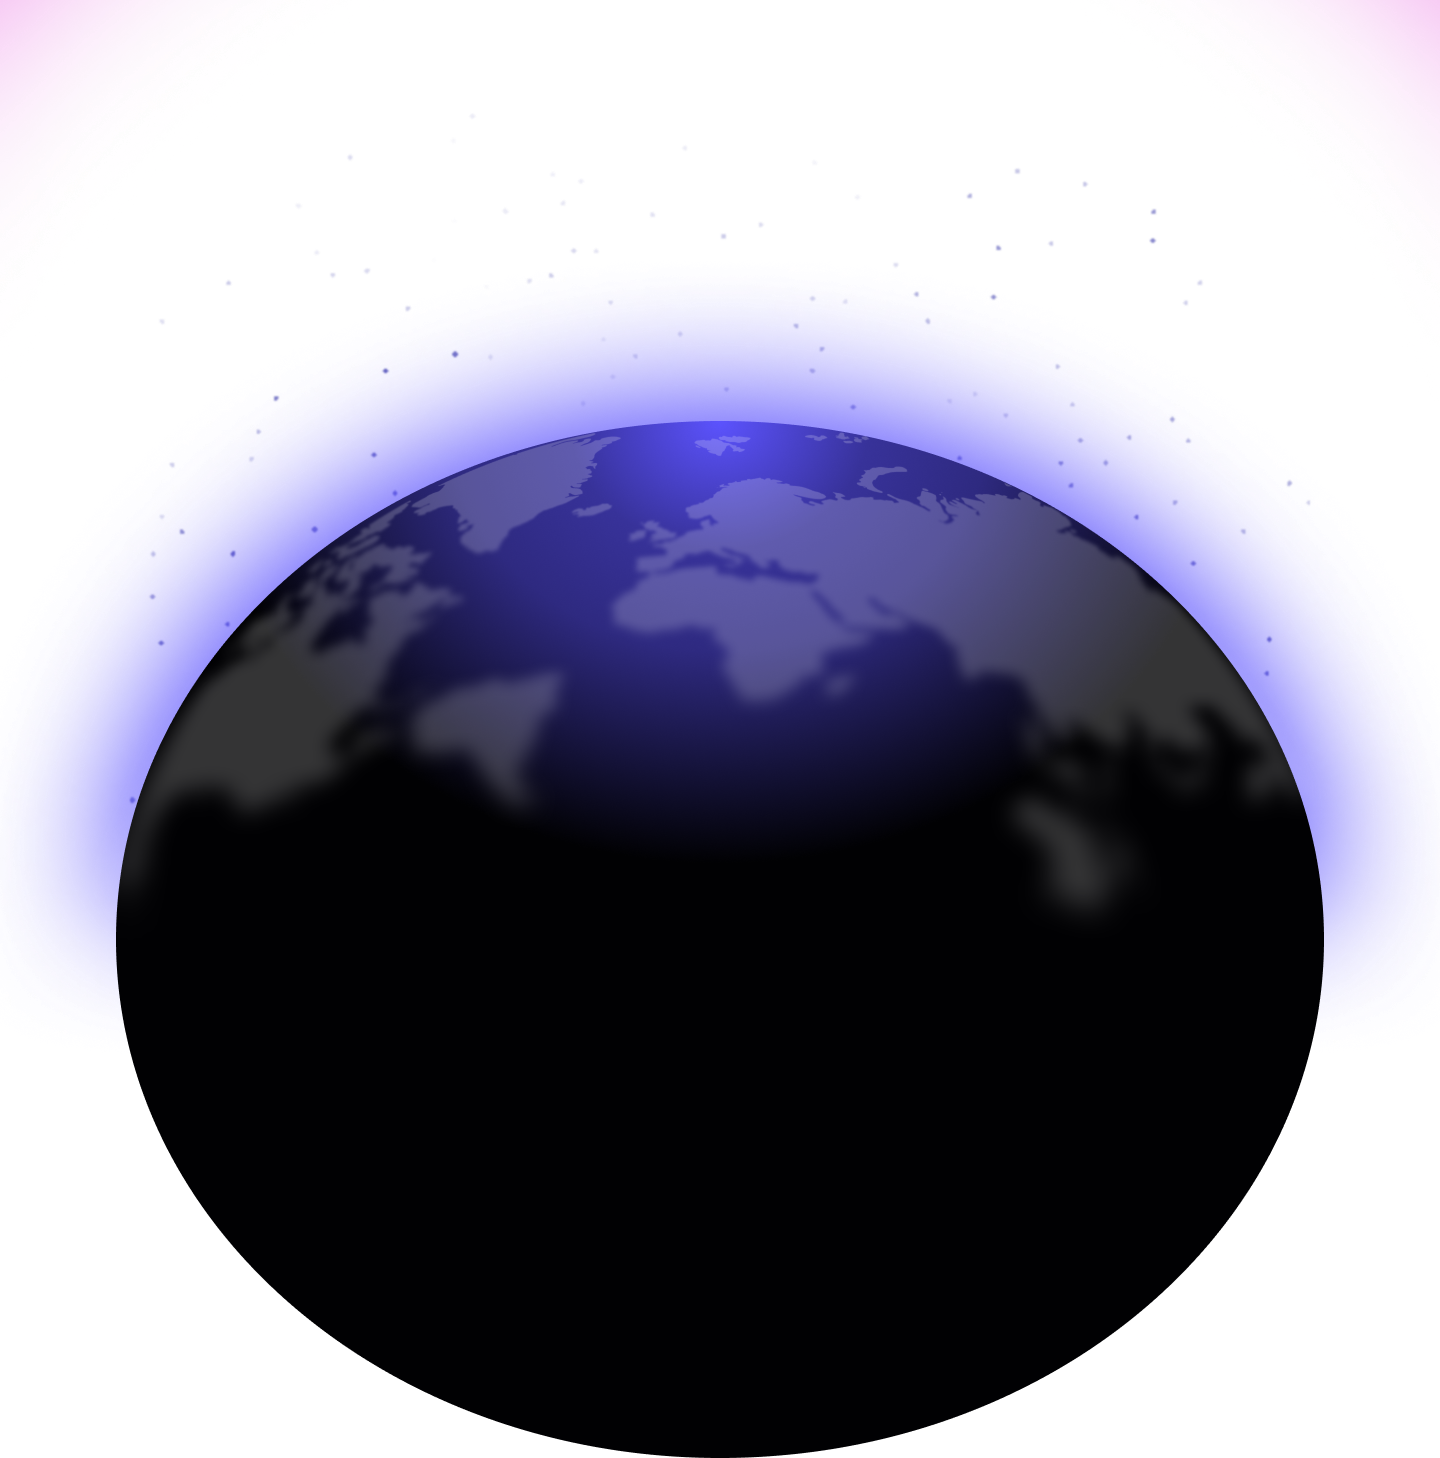
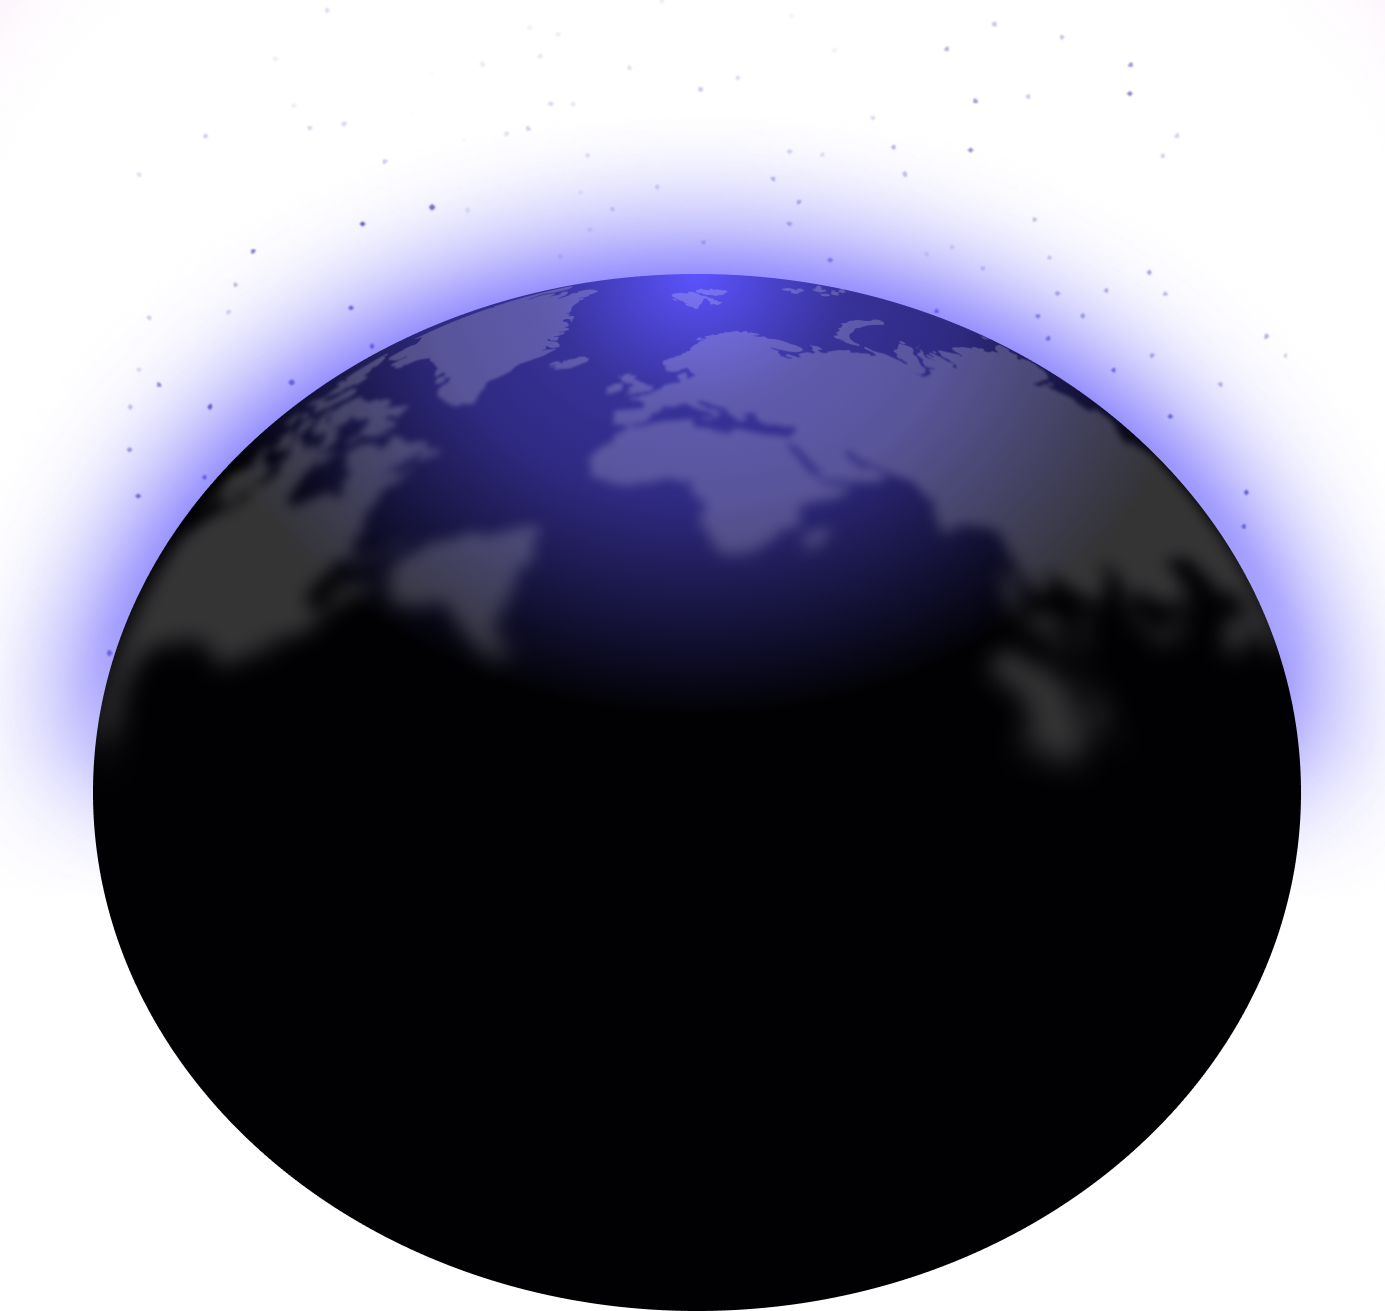
feat: add JobDiscovery and FeaturesSection components; update StatsSection layout

diff --git a/src/components/JobDiscovery.jsx b/src/components/JobDiscovery.jsx
@@ -1,0 +1,141 @@
+import React from 'react';
+import {
+  FiMapPin,
+  FiBriefcase,
+  FiDollarSign,
+  FiArrowRight,
+} from 'react-icons/fi';
+
+const jobsData = [
+  {
+    id: 1,
+    role: 'Frontend Developer',
+    description:
+      'Showcase your commitment to diversity and inclusion by highlighting initiatives',
+    location: 'New York, USA',
+    type: 'Hybrid',
+    salary: '€25–€40/hour',
+  },
+  {
+    id: 2,
+    role: 'Frontend Developer',
+    description:
+      'Showcase your commitment to diversity and inclusion by highlighting initiatives',
+    location: 'New York, USA',
+    type: 'Hybrid',
+    salary: '€25–€40/hour',
+  },
+  {
+    id: 3,
+    role: 'Frontend Developer',
+    description:
+      'Showcase your commitment to diversity and inclusion by highlighting initiatives',
+    location: 'New York, USA',
+    type: 'Hybrid',
+    salary: '€25–€40/hour',
+  },
+  {
+    id: 4,
+    role: 'Frontend Developer',
+    description:
+      'Showcase your commitment to diversity and inclusion by highlighting initiatives',
+    location: 'New York, USA',
+    type: 'Hybrid',
+    salary: '€25–€40/hour',
+  },
+  {
+    id: 5,
+    role: 'Frontend Developer',
+    description:
+      'Showcase your commitment to diversity and inclusion by highlighting initiatives',
+    location: 'New York, USA',
+    type: 'Hybrid',
+    salary: '€25–€40/hour',
+  },
+  {
+    id: 6,
+    role: 'Frontend Developer',
+    description:
+      'Showcase your commitment to diversity and inclusion by highlighting initiatives',
+    location: 'New York, USA',
+    type: 'Hybrid',
+    salary: '€25–€40/hour',
+  },
+];
+
+export default function JobDiscovery() {
+  return (
+    <section className="bg-black text-white py-20 px-4 sm:px-6 lg:px-8 font-sans antialiased">
+      <div className="max-w-6xl mx-auto text-center mb-16">
+        {/* Top Mini Badge */}
+        <div className="inline-flex items-center gap-2 text-xs font-semibold tracking-widest text-indigo-400 uppercase mb-4 select-none">
+          <span className="w-1.5 h-1.5 bg-indigo-500 rounded-full animate-pulse"></span>
+          Smart Job Discovery
+          <span className="w-1.5 h-1.5 bg-indigo-500 rounded-full animate-pulse"></span>
+        </div>
+
+        {/* Main Heading */}
+        <h2 className="text-3xl sm:text-5xl font-normal tracking-tight max-w-2xl mx-auto leading-tight">
+          The roles you'd never find by searching
+        </h2>
+      </div>
+
+      {/* Job Cards Grid */}
+      <div className="max-w-6xl mx-auto grid grid-cols-1 md:grid-cols-2 lg:grid-cols-3 gap-6 mb-16">
+        {jobsData.map((job) => (
+          <div
+            key={job.id}
+            className="group relative bg-[#121212] border border-[#1f1f1f] rounded-2xl p-8 flex flex-col justify-between transition-all duration-500 ease-out hover:border-zinc-700 hover:-translate-y-2 hover:shadow-[0_10px_30px_rgba(0,0,0,0.5)] cursor-pointer"
+          >
+            <div>
+              {/* Job Title */}
+              <h3 className="text-2xl font-medium mb-3 text-gray-100 group-hover:text-white transition-colors duration-300">
+                {job.role}
+              </h3>
+
+              {/* Description */}
+              <p className="text-sm text-gray-400 leading-relaxed mb-6 font-light">
+                {job.description}
+              </p>
+
+              {/* Badges / Tags */}
+              <div className="flex flex-wrap gap-2 mb-3">
+                <span className="inline-flex items-center gap-1.5 bg-[#1a1a1a] text-xs text-gray-300 px-3 py-1.5 rounded-full border border-[#262626] transition-colors duration-300 group-hover:border-zinc-800">
+                  <FiMapPin className="text-purple-400 text-sm" />
+                  {job.location}
+                </span>
+                <span className="inline-flex items-center gap-1.5 bg-[#1a1a1a] text-xs text-gray-300 px-3 py-1.5 rounded-full border border-[#262626] transition-colors duration-300 group-hover:border-zinc-800">
+                  <FiBriefcase className="text-purple-400 text-sm" />
+                  {job.type}
+                </span>
+              </div>
+
+              {/* Salary Badge */}
+              <div className="mb-8">
+                <span className="inline-flex items-center gap-1.5 bg-[#1a1a1a] text-xs text-gray-300 px-3 py-1.5 rounded-full border border-[#262626] transition-colors duration-300 group-hover:border-zinc-800">
+                  <FiDollarSign className="text-purple-400 text-sm" />
+                  {job.salary}
+                </span>
+              </div>
+            </div>
+
+            {/* Apply Now Button with link animation */}
+            <div>
+              <div className="inline-flex items-center gap-2 text-sm font-medium text-gray-400 group-hover:text-white transition-colors duration-300">
+                <span>Apply Now</span>
+                <FiArrowRight className="transform transition-transform duration-300 ease-out group-hover:translate-x-2" />
+              </div>
+            </div>
+          </div>
+        ))}
+      </div>
+
+      {/* Bottom Footer Button */}
+      <div className="text-center">
+        <button className="bg-white text-black font-medium text-sm px-6 py-3 rounded-xl hover:bg-gray-200 active:scale-95 transition-all duration-200 shadow-sm">
+          View all job open
+        </button>
+      </div>
+    </section>
+  );
+}

diff --git a/src/components/FeaturesSection.jsx b/src/components/FeaturesSection.jsx
@@ -1,0 +1,117 @@
+import React from 'react';
+import {
+  FiSearch,
+  FiTrendingUp,
+  FiBarChart2,
+  FiBookmark,
+  FiMousePointer,
+  FiFileText,
+  FiHexagon,
+  FiArrowUpRight,
+} from 'react-icons/fi';
+
+const featuresData = [
+  {
+    id: 1,
+    title: 'Smart Search',
+    description: 'Find your ideal job with advanced filters.',
+    icon: FiSearch,
+  },
+  {
+    id: 2,
+    title: 'Salary Insights',
+    description: 'Get real salary data to negotiate confidently.',
+    icon: FiTrendingUp,
+  },
+  {
+    id: 3,
+    title: 'Top Companies',
+    description: 'Apply to vetted companies that are hiring.',
+    icon: FiBarChart2,
+  },
+  {
+    id: 4,
+    title: 'Saved Jobs',
+    description: 'Manage apps & favorites on your dashboard.',
+    icon: FiBookmark,
+  },
+  {
+    id: 5,
+    title: 'One-Click Apply',
+    description: 'Simplify your job applications for an easier process!',
+    icon: FiMousePointer,
+  },
+  {
+    id: 6,
+    title: 'Resume Builder',
+    description: 'Create professional resumes with modern templates.',
+    icon: FiFileText,
+  },
+  {
+    id: 7,
+    title: 'Skill-Based Matching',
+    description: 'Discover jobs that match your skills and experience.',
+    icon: FiHexagon,
+  },
+  {
+    id: 8,
+    title: 'Career Growth Resources',
+    description: 'Boost your career with quick interview tips.',
+    icon: FiArrowUpRight,
+  },
+];
+
+export default function FeaturesSection() {
+  return (
+    <section className="bg-[#0f0f0f] text-white py-24 px-4 sm:px-6 lg:px-8 font-sans antialiased">
+      <div className="max-w-7xl mx-auto">
+        {/* Header Section */}
+        <div className="text-center mb-20">
+          {/* Top Mini Badge */}
+          <div className="inline-flex items-center gap-2 text-xs font-semibold tracking-widest text-indigo-400 uppercase mb-4 select-none">
+            <span className="w-1.5 h-1.5 bg-indigo-500 rounded-xs"></span>
+            FEATURES JOB
+            <span className="w-1.5 h-1.5 bg-indigo-500 rounded-xs"></span>
+          </div>
+
+          {/* Main Heading */}
+          <h2 className="text-4xl sm:text-5xl font-normal tracking-tight max-w-2xl mx-auto leading-tight text-gray-100">
+            Everything you need <br /> to succeed
+          </h2>
+        </div>
+
+        {/* Features Grid */}
+        <div className="grid grid-cols-1 sm:grid-cols-2 lg:grid-cols-4 gap-x-8 gap-y-12 max-w-6xl mx-auto">
+          {featuresData.map((feature) => {
+            const IconComponent = feature.icon;
+            return (
+              <div
+                key={feature.id}
+                className="group flex items-start gap-4 cursor-pointer select-none"
+              >
+                {/* Icon Box with Smooth Glow and Scale Animation */}
+                <div className="flex-shrink-0 w-14 h-14 bg-[#141414] border border-[#222] rounded-xl flex items-center justify-center relative overflow-hidden transition-all duration-300 group-hover:scale-105 group-hover:border-purple-900/50 group-hover:shadow-[0_0_20px_rgba(168,85,247,0.15)]">
+                  {/* Subtle purple gradient background on hover */}
+                  <div className="absolute inset-0 bg-gradient-to-br from-purple-900/10 to-transparent opacity-0 group-hover:opacity-100 transition-opacity duration-300" />
+
+                  {/* Icon */}
+                  <IconComponent className="text-xl text-purple-400 transition-transform duration-300 group-hover:scale-110" />
+                </div>
+
+                {/* Text Content */}
+                <div className="flex flex-col justify-center pt-1">
+                  <h3 className="text-[15px] font-medium text-gray-200 mb-1 transition-colors duration-200 group-hover:text-white">
+                    {feature.title}
+                  </h3>
+                  <p className="text-[13px] text-gray-400 leading-normal font-light max-w-[180px] transition-colors duration-200 group-hover:text-gray-300">
+                    {feature.description}
+                  </p>
+                </div>
+              </div>
+            );
+          })}
+        </div>
+      </div>
+    </section>
+  );
+}

diff --git a/src/components/StatsSection.jsx b/src/components/StatsSection.jsx
@@ -22,14 +22,15 @@ export default function StatsSection() {
         </div>
 
         {/* Text */}
-        <div className="absolute left-1/2 top-28 -translate-x-1/2 text-center">
-          <h2 className="max-w-xl text-2xl font-semibold text-white md:text-4xl">
-            Assisting over 15,000 job seekers find their dream positions.
+        <div className="absolute left-1/2 top-88 -translate-x-1/2 text-center">
+          <h2 className="max-w-xl text-2xl  text-white md:text-4xl">
+            Assisting over <span className='font-bold'>15,000</span> job seekers find their dream
+            positions.
           </h2>
         </div>
 
         {/* Cards */}
-        <div className="relative z-10 -mt-16 grid gap-4 md:grid-cols-2 lg:grid-cols-4">
+        <div className="relative z-10 -mt-140 grid gap-4 md:grid-cols-2 lg:grid-cols-4">
           <div className="rounded-3xl border border-white/10 bg-white/[0.03] p-6 backdrop-blur-xl">
             <FiBriefcase className="text-white" />
             <h3 className="mt-8 text-5xl font-bold text-white">50K</h3>

diff --git a/src/app/page.js b/src/app/page.js
@@ -1,14 +1,18 @@
+import FeaturesSection from '@/components/FeaturesSection';
 import HeroSection from '@/components/HeroSection';
+import JobDiscovery from '@/components/JobDiscovery';
 import Navbar from '@/components/Navbar';
 import StatsSection from '@/components/StatsSection';
 import Image from 'next/image';
 
 export default function Home() {
   return (
-    <main className='bg-black'>
+    <main className="bg-black">
       <Navbar />
       <HeroSection />
       <StatsSection />
+      <JobDiscovery />
+      <FeaturesSection />
     </main>
   );
 }